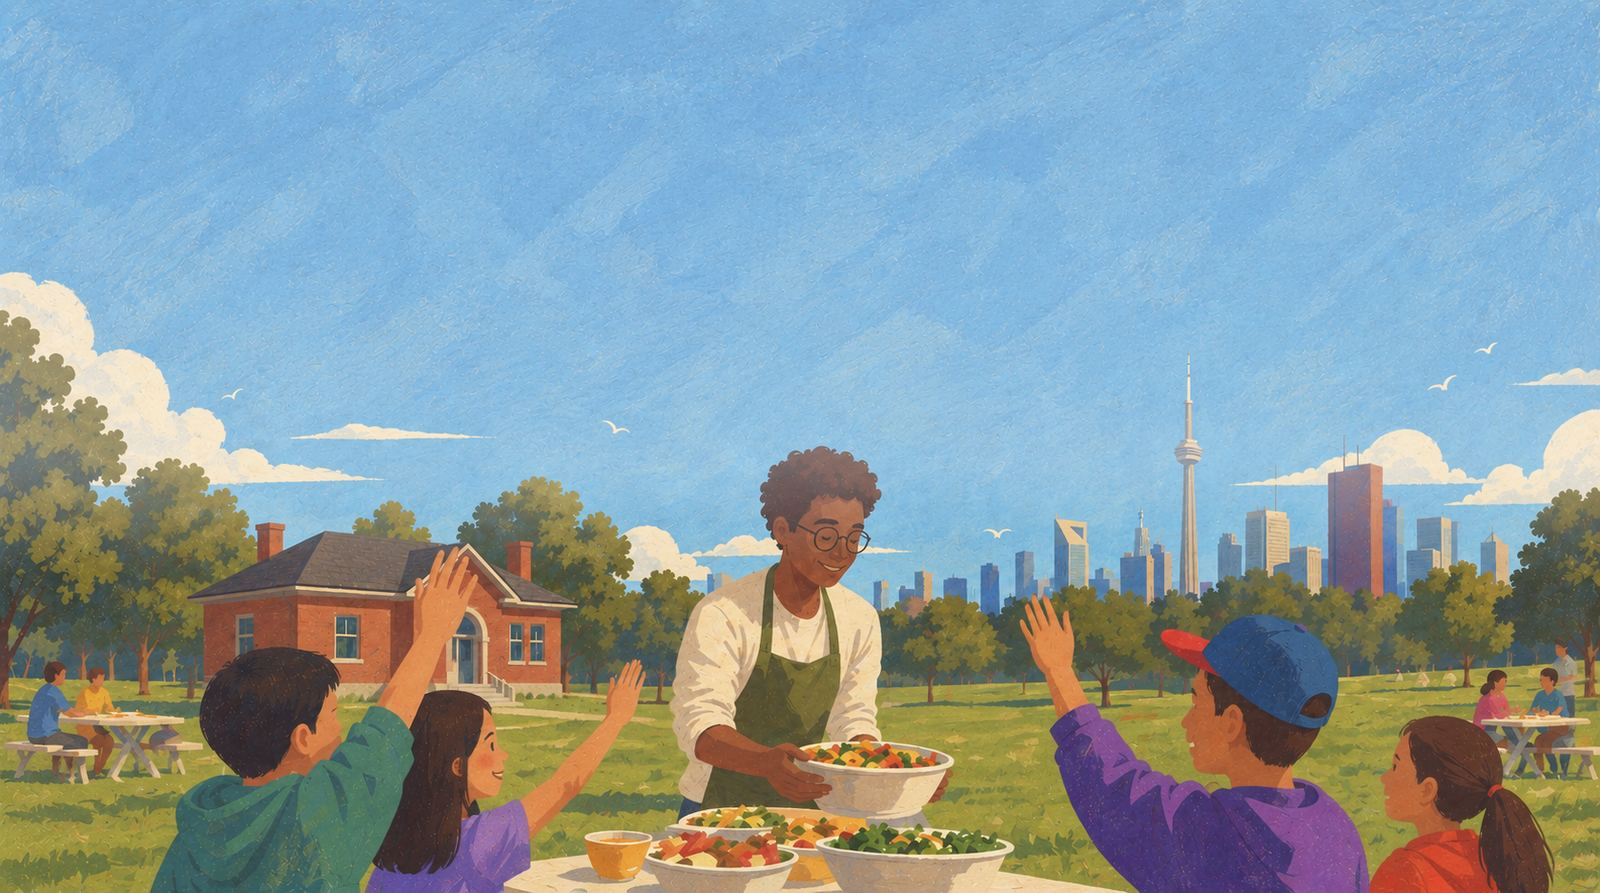
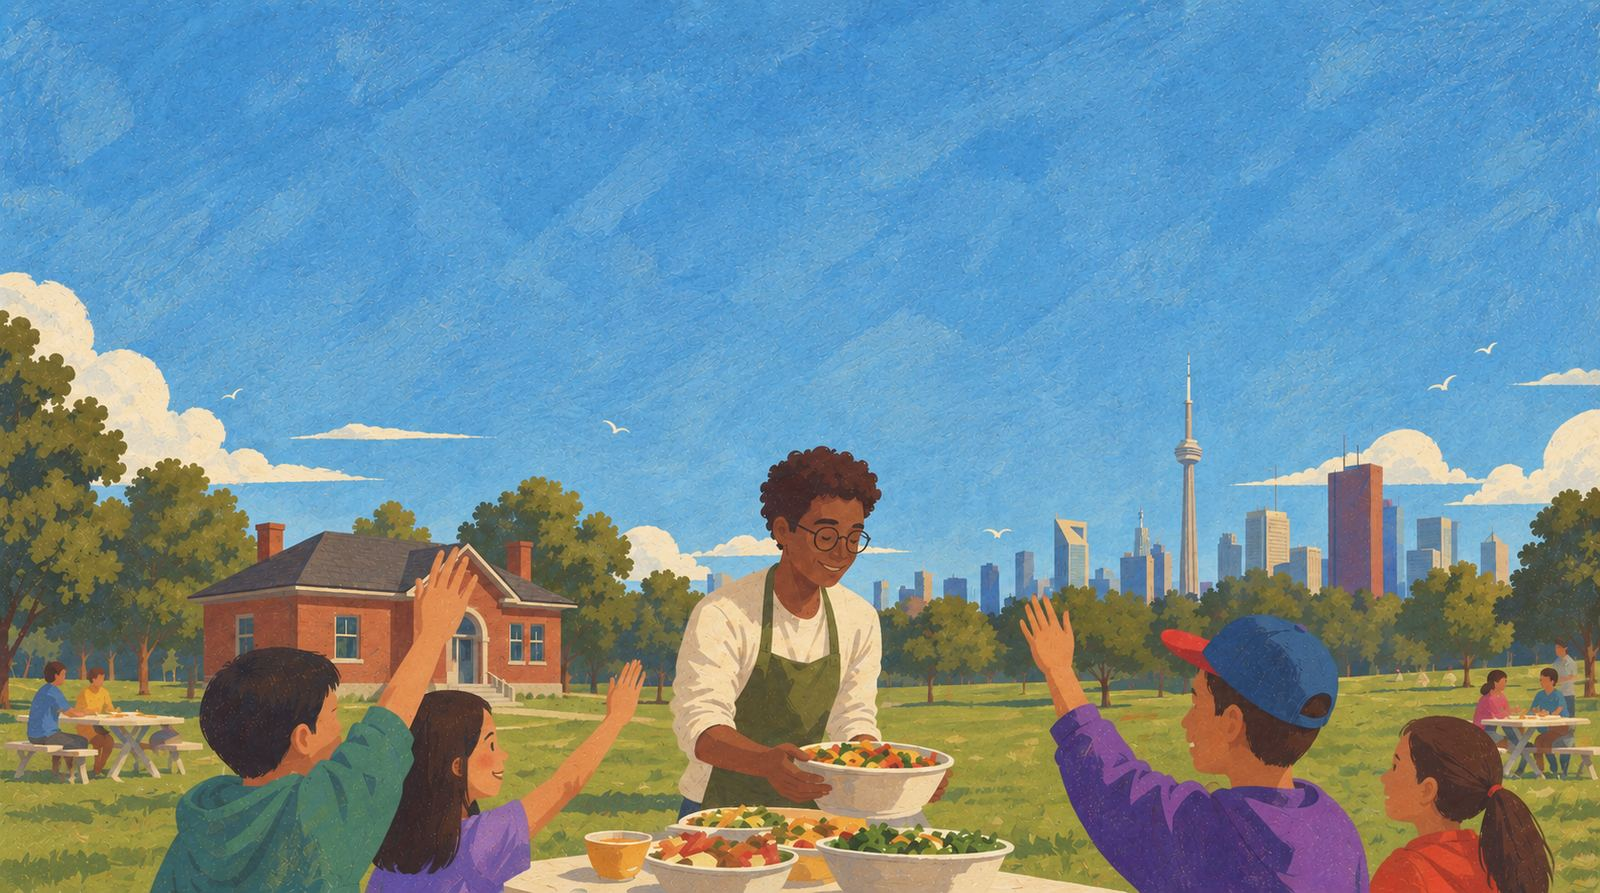
applicants: show organisations who applied, not just that someone did
The applicants screen showed a name, a status and a message that is usually
blank. School, grade, neighbourhood, interests, skills, availability and
previous experience were all sitting in students/ and were never asked for, so
a coordinator choosing between four applicants was choosing between four names.

It stopped being theoretical today. The Rotary Club of North York accepted four
students for the Terry Fox Run and every one of those details had to be typed
into an email by hand, because the product would not show them.

The endpoint withholds gender, phone, logged hours and resume URL. Those are
either irrelevant to picking a volunteer or belong to the student rather than
to every organisation they apply to. Authorisation is unchanged and already
correct: 403 unless the caller owns the opportunity.

Also finishes the hero. White text needed a scrim, and the scrim needed pushing
further down the section than it first looked: the top padding is fixed in
pixels while the section height is not, so the headline sits 11 to 30% down at
390 and 16 to 38% at 768, and a gradient tuned on a phone was already thin
where the tablet crop put the last line. Measured against the rendered page
with the headline hidden, at five widths: 5.51, 5.86, 5.30, 5.35, 5.45 to one.

diff --git a/src/pages/Home.tsx b/src/pages/Home.tsx
@@ -183,14 +183,43 @@ export default function Home() {
           the italic line straight through his hair. Starting higher and
           setting smaller keeps all three lines inside the sky. Nothing changes
           from sm upward, where there is room. */}
-      <section ref={heroRef} className="relative pt-6 sm:pt-20 lg:pt-28 overflow-hidden">
+      <section ref={heroRef} className="relative min-h-[62svh] sm:min-h-0 pt-14 sm:pt-20 lg:pt-28 overflow-hidden">
         {/* Background image, full natural coverage.
 
             bg-paper is the fallback rather than bg-blue-dark, because the
             headline is now INK. A failed image used to leave white text on a
             dark blue box; with dark text it has to leave dark text on a light
             one, or the hero reads as empty. */}
-        <div className="absolute inset-0 bg-paper bg-[url('/hero-bg.jpg')] bg-cover bg-center bg-no-repeat" />
+        <div className="absolute inset-0 bg-blue-dark bg-[url('/hero-bg.jpg')] bg-cover bg-center bg-no-repeat" />
+
+        {/* Scrim for the headline, on phones only.
+
+            White cannot survive this illustration unaided. Measured against
+            the sky under the headline at three different crops it came out at
+            1.72, 2.06 and 1.10 to one, and the sky is too pale to darken into
+            range without turning a summer afternoon into dusk: getting white
+            to 4.5 by darkening the image needs about 60%.
+
+            So the text gets its own ground instead. 48% ink at the top, gone by
+            62%, which is above the treeline and well above the volunteer. The
+            palest sky pixel under the headline is rgb(113,188,245); at 48% it
+            becomes rgb(71,118,153) and white reads 4.8:1 against it.
+
+            Every width, not just phones. It was scoped to phones first on the
+            assumption that a wider crop put the headline over deeper sky; at
+            1440 the worst pixel under it is rgb(131,195,241) and white read
+            1.90:1, so that assumption was wrong.
+
+            The stops were then pushed further down because 768 still failed at
+            3.62:1. The headline sits at a different fraction of the section at
+            every width, since the top padding is fixed in pixels while the
+            section height is not: about 11 to 30% of the way down at 390, but
+            16 to 38% at 768. A scrim that had faded to 0.20 by 48% was already
+            thin where the tablet crop puts the last line. */}
+        <div
+          aria-hidden="true"
+          className="absolute inset-0 bg-[linear-gradient(to_bottom,rgba(26,43,54,0.56)_0%,rgba(26,43,54,0.54)_40%,rgba(26,43,54,0.38)_50%,rgba(26,43,54,0.14)_60%,rgba(26,43,54,0)_68%)]"
+        />
 
         {/* The bottom padding sets the hero's height, and therefore how much of
             the illustration survives bg-cover.
@@ -203,7 +232,7 @@ export default function Home() {
             edges. Dropping the phone value widens the container and gives the
             picture back. It also closes the band of empty grass that used to
             sit between the illustration and the section below. */}
-        <motion.div style={{ opacity: heroOpacity, y: heroY }} className="max-w-6xl mx-auto px-6 relative z-10 pb-[30vw] sm:pb-[40vw] lg:pb-[38vw]">
+        <motion.div style={{ opacity: heroOpacity, y: heroY }} className="max-w-6xl mx-auto px-6 relative z-10 pb-[38vw] sm:pb-[40vw] lg:pb-[38vw]">
           <motion.div variants={stagger} initial="hidden" animate="visible" className="flex flex-col items-center text-center">
             {/* INK, not white, and the drop shadow is gone.
 
@@ -230,11 +259,11 @@ export default function Home() {
                 light sky does not need it, and it only muddied the edges. */}
             <motion.h1
               variants={riseUp}
-              className="text-[1.875rem] sm:text-[3rem] lg:text-[3.5rem] font-semibold text-ink tracking-[-0.03em] leading-[1.2]"
+              className="text-[2.125rem] sm:text-[3rem] lg:text-[3.5rem] font-semibold text-white tracking-[-0.03em] leading-[1.2] drop-shadow-[0_2px_16px_rgba(0,0,0,0.45)]"
             >
               Your community needs you.
               <br />
-              <span className="font-display italic text-ink">
+              <span className="font-display italic text-white">
                 Find where you belong.
               </span>
             </motion.h1>

diff --git a/src/pages/OrgOpportunityApplicants.tsx b/src/pages/OrgOpportunityApplicants.tsx
@@ -975,6 +975,69 @@ The ${stillWaiting.length} applicant(s) still waiting will be declined and email
                           </button>
                         )}
                       </div>
+
+                      {/* The student's profile.
+
+                          This screen used to show a name, a status and a
+                          message that is usually blank, and nothing else. Every
+                          field below was already stored on the students/
+                          document and simply never asked for, so a coordinator
+                          choosing between four applicants was choosing between
+                          four names.
+
+                          It stopped being theoretical on 10 Sep: the Rotary
+                          Club of North York had four applicants for ten places
+                          and had to be sent all of this by hand, in an email,
+                          because the product would not show it.
+
+                          Rendered only when the profile came back. A student
+                          who signed up but never finished onboarding has no
+                          students/ document, and an empty grid of labels with
+                          nothing under them is worse than no grid. */}
+                      {(() => {
+                        const c = contacts[app.studentId];
+                        if (!c) return null;
+                        const where = [c.school, c.grade ? `Grade ${c.grade}` : null, c.neighborhood]
+                          .filter(Boolean).join(' · ');
+                        const groups: Array<[string, string[]]> = [
+                          ['Interests', c.interests || []],
+                          ['Skills', c.skills || []],
+                          ['Available', c.availability || []],
+                        ].filter(([, v]) => v.length > 0) as Array<[string, string[]]>;
+                        if (!where && groups.length === 0 && !c.previousExperience) return null;
+                        return (
+                          <div className="mt-4 bg-white p-6 rounded-lg border border-line-light space-y-4">
+                            {where && (
+                              <p className="text-sm font-semibold text-ink">{where}</p>
+                            )}
+                            {groups.map(([label, values]) => (
+                              <div key={label}>
+                                <p className="text-xs font-bold text-ink-muted uppercase tracking-widest mb-2">
+                                  {label}
+                                </p>
+                                <div className="flex flex-wrap gap-1.5">
+                                  {values.map((v) => (
+                                    <span
+                                      key={v}
+                                      className="text-xs font-medium px-2.5 py-1 rounded-full bg-paper-2 text-ink-soft border border-line-light"
+                                    >
+                                      {v}
+                                    </span>
+                                  ))}
+                                </div>
+                              </div>
+                            ))}
+                            {c.previousExperience && (
+                              <div>
+                                <p className="text-xs font-bold text-ink-muted uppercase tracking-widest mb-2">
+                                  Previous experience
+                                </p>
+                                <p className="text-sm text-ink-soft leading-relaxed">{c.previousExperience}</p>
+                              </div>
+                            )}
+                          </div>
+                        );
+                      })()}
                     </div>
 
                     <div className="flex flex-col md:w-56 gap-4 self-start w-full">

diff --git a/server.ts b/server.ts
@@ -2925,10 +2925,51 @@ app.use(express.json());
         .map((d: any) => String(d.data()?.studentId || ''))
         .filter((v: string) => !!v)));
       const emails = new Map<string, string>();
+      const profiles = new Map<string, Record<string, unknown>>();
       await Promise.all(studentIds.map(async (uid) => {
-        const u = await adb.collection('users').doc(uid).get().catch(() => null);
+        const [u, s] = await Promise.all([
+          adb.collection('users').doc(uid).get().catch(() => null),
+          adb.collection('students').doc(uid).get().catch(() => null),
+        ]);
         const email = u?.exists ? u.data()?.email : null;
         if (email) emails.set(uid, email);
+
+        /*
+         * The profile, minus the parts that are none of an organization's
+         * business.
+         *
+         * This used to return a name and an email and nothing else, while the
+         * students/ document held school, grade, neighbourhood, interests,
+         * skills, availability and previous experience the whole time. A
+         * coordinator choosing between four applicants was shown four names.
+         * On 10 Sep the Rotary Club of North York had to be sent all of it by
+         * hand, in an email, because the product would not show it.
+         *
+         * WHAT IS DELIBERATELY WITHHELD, and why:
+         *   gender        irrelevant to picking a volunteer, and sensitive
+         *   phone         a minor's phone number should be given by the
+         *                 student in conversation, not published to every
+         *                 organization they apply to. Email is the channel.
+         *   loggedHours   their entire volunteering history across every other
+         *                 organization. Not this one's business.
+         *   resumeUrl     a storage link that outlives the application
+         *
+         * Everything included is something the student typed in order to be
+         * matched, which is the whole purpose they entered it for.
+         */
+        if (s?.exists) {
+          const d = s.data() || {};
+          const arr = (v: unknown) => (Array.isArray(v) ? v.filter((x) => typeof x === 'string') : []);
+          profiles.set(uid, {
+            school: typeof d.school === 'string' ? d.school : null,
+            grade: typeof d.grade === 'string' ? d.grade : null,
+            neighborhood: typeof d.neighborhood === 'string' ? d.neighborhood : null,
+            interests: arr(d.interests),
+            skills: arr(d.skills),
+            availability: arr(d.availability),
+            previousExperience: typeof d.previousExperience === 'string' ? d.previousExperience : null,
+          });
+        }
       }));
 
       const contacts = appsSnap.docs.map((d: any) => {
@@ -2939,6 +2980,7 @@ app.use(express.json());
           studentName: a.studentName || 'Student',
           status: a.status,
           email: emails.get(String(a.studentId)) || null,
+          ...(profiles.get(String(a.studentId)) || {}),
         };
       });
 

diff --git a/src/lib/emailService.ts b/src/lib/emailService.ts
@@ -149,6 +149,22 @@ export interface ApplicantContact {
   studentName: string;
   status: string;
   email: string | null;
+  /*
+   * The profile fields the student filled in to be matched. All optional: a
+   * student who signed up before completing onboarding has no students/
+   * document, and the server omits the block entirely rather than sending a
+   * row of nulls.
+   *
+   * gender, phone, loggedHours and resumeUrl are NOT here and must not be
+   * added. See the note on the server endpoint for why each one is withheld.
+   */
+  school?: string | null;
+  grade?: string | null;
+  neighborhood?: string | null;
+  interests?: string[];
+  skills?: string[];
+  availability?: string[];
+  previousExperience?: string | null;
 }
 
 /**
